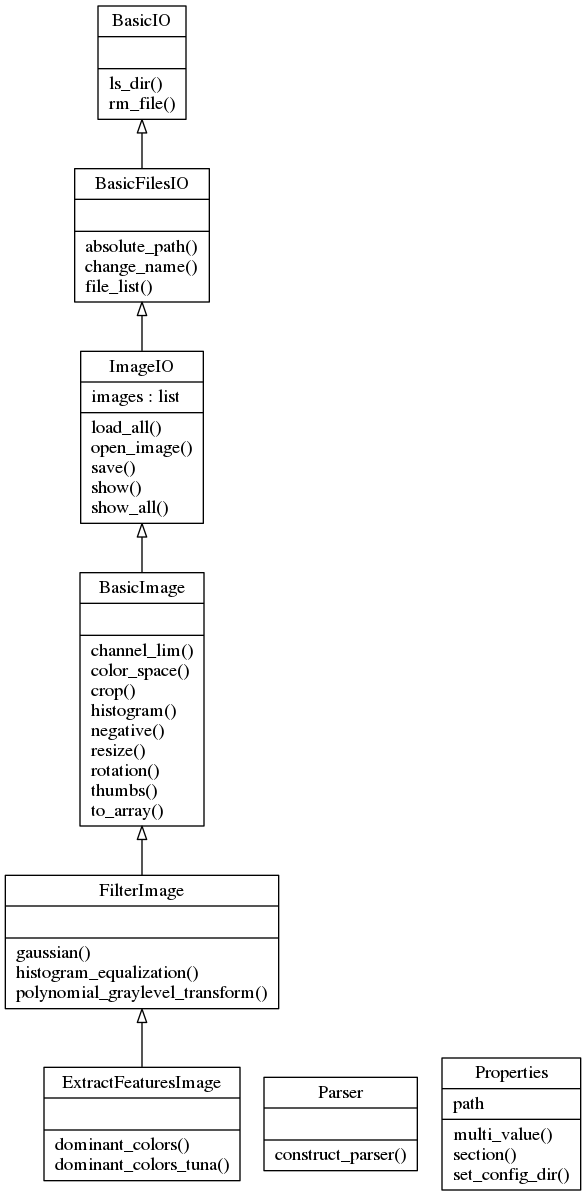
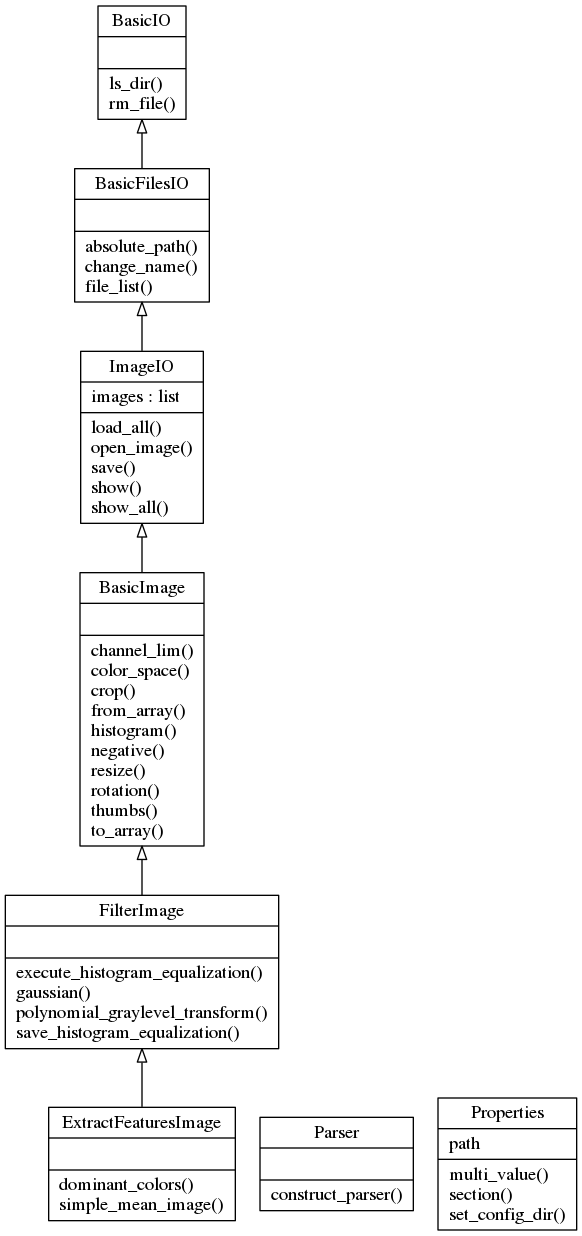
✨ Generating mean images

Changed region(s): [[0.0, 0.0, 0.9897, 1.0]]

diff --git a/features/extraction.py b/features/extraction.py
@@ -42,3 +42,46 @@ class ExtractFeaturesImage(image_basic.FilterImage):
                 cluster_num=cluster,
                 RGB=color
             )
+
+    def simple_mean_image(self, path):
+        """
+        Generate a mean image taking in some assumptions:
+            1. All images analyzed has the same size
+            2. All images are normalized (centralized, cropped) on the
+                object been analyzed (faces or animals, for instance)
+            3. Image with different size than first one read will be discarded
+            4. The path parameter must point to a directory with more than one recognizable
+                image. Otherwise, will be returned the input image.
+        """
+        count_images = 1
+
+        files = iter(self.file_list(path))
+
+        first_file = files.next()
+        first_image = self.to_array(self.open_image(first_file), 'float32')
+        assumed_size_images = first_image.shape
+
+        image_array = first_image
+
+        print 'Assuming that other images has size {0} x {1}'.format(
+            assumed_size_images[1],
+            assumed_size_images[0]
+        )
+
+        while True:
+            try:
+                next_image = self.to_array(self.open_image(files.next()), 'float32')
+
+                if assumed_size_images == next_image.shape:
+                    image_array += next_image
+                    count_images += 1
+            except StopIteration:
+                image_array /= count_images
+
+                self.save(
+                    self.from_array(
+                        self.to_array(image_array, 'uint8')
+                    ), path + '/mean_image.png'
+                )
+
+                break

diff --git a/basic/image_basic.py b/basic/image_basic.py
@@ -109,12 +109,26 @@ class BasicImage(io.ImageIO):
         return value / 255
 
     @staticmethod
-    def to_array(image):
+    def to_array(image, array_type='uint8'):
         """
         Convert a PIL Image object
         to numpy array
+
+        Parameters
+        ----------
+        image: PIL Image Object
+            An instance of a image object from PIL module
+        array_type: str
+            Numpy type for the array
         """
-        return np.array(image)
+        return np.array(image, array_type)
+
+    @staticmethod
+    def from_array(image_array):
+        """
+        Convert a numpy array to a PIL Image Object
+        """
+        return Image.fromarray(image_array)
 
 class FilterImage(BasicImage):
     """

diff --git a/shellparser/parser.py b/shellparser/parser.py
@@ -99,6 +99,12 @@ class Parser(object):
             type=int
         )
 
+        psh.add_argument(
+            '--simple_mean_image',
+            help='Generate a mean picture from a image database',
+            action='store_true'
+        )
+
         fargs = psh.parse_args()
 
         return fargs
